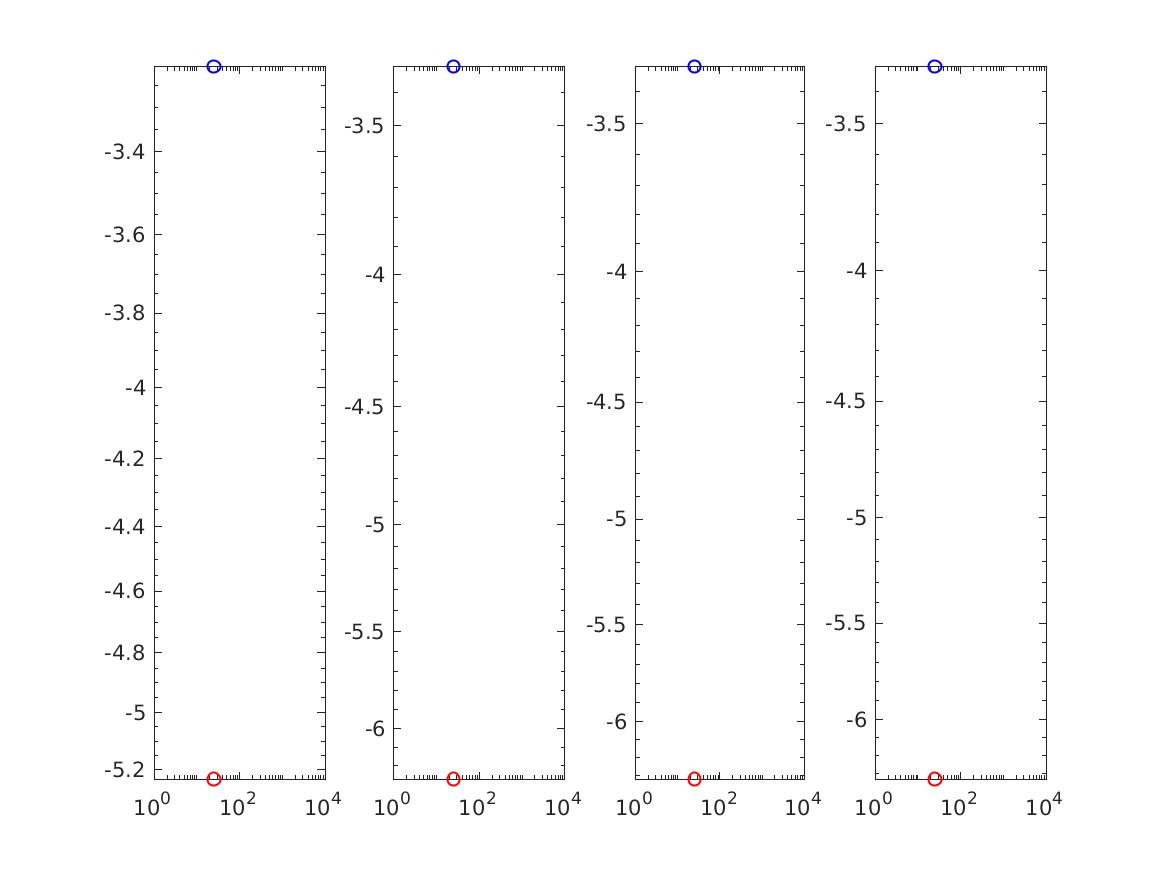
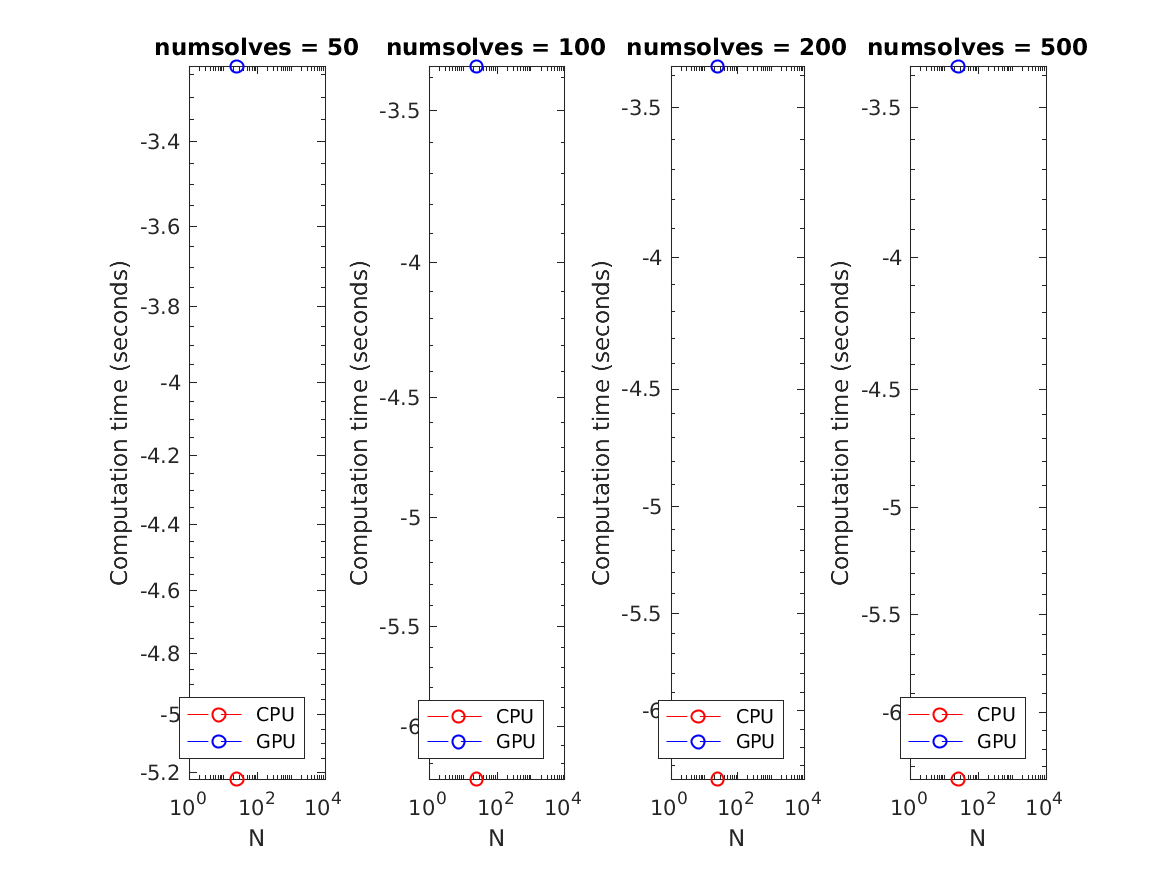
Legend test

diff --git a/All-other-forward-problems-and-figures/GPUtest1.m b/All-other-forward-problems-and-figures/GPUtest1.m
@@ -47,9 +47,14 @@ figure
 for solveind = 1:length(nsolvesvec)
 subplot(1,length(nsolvesvec), solveind)
 loglog(Nvec, median(logCPUtime(:,:,solveind),1), 'r--o', Nvec, median(logGPUtime(:,:,solveind),1), 'b--o')
+title(strcat("numsolves = ", num2str(nsolvesvec(solveind))));
+xlabel('N')
+ylabel('Computation time (seconds)')
+legend('CPU', 'GPU', 'Location', 'southeast')
 end
 
 saveas(gcf, '~/uqdesShaun/All-other-forward-problems-and-figures/GPUtest1.png')
+
 %A bunch of commented-out stuff from Oksana's original Figure1 code
  %   [ueuler,teuler] = euler(sspan,N,odefn,u0,theta);
  %   truth = odesoln(t,theta);
